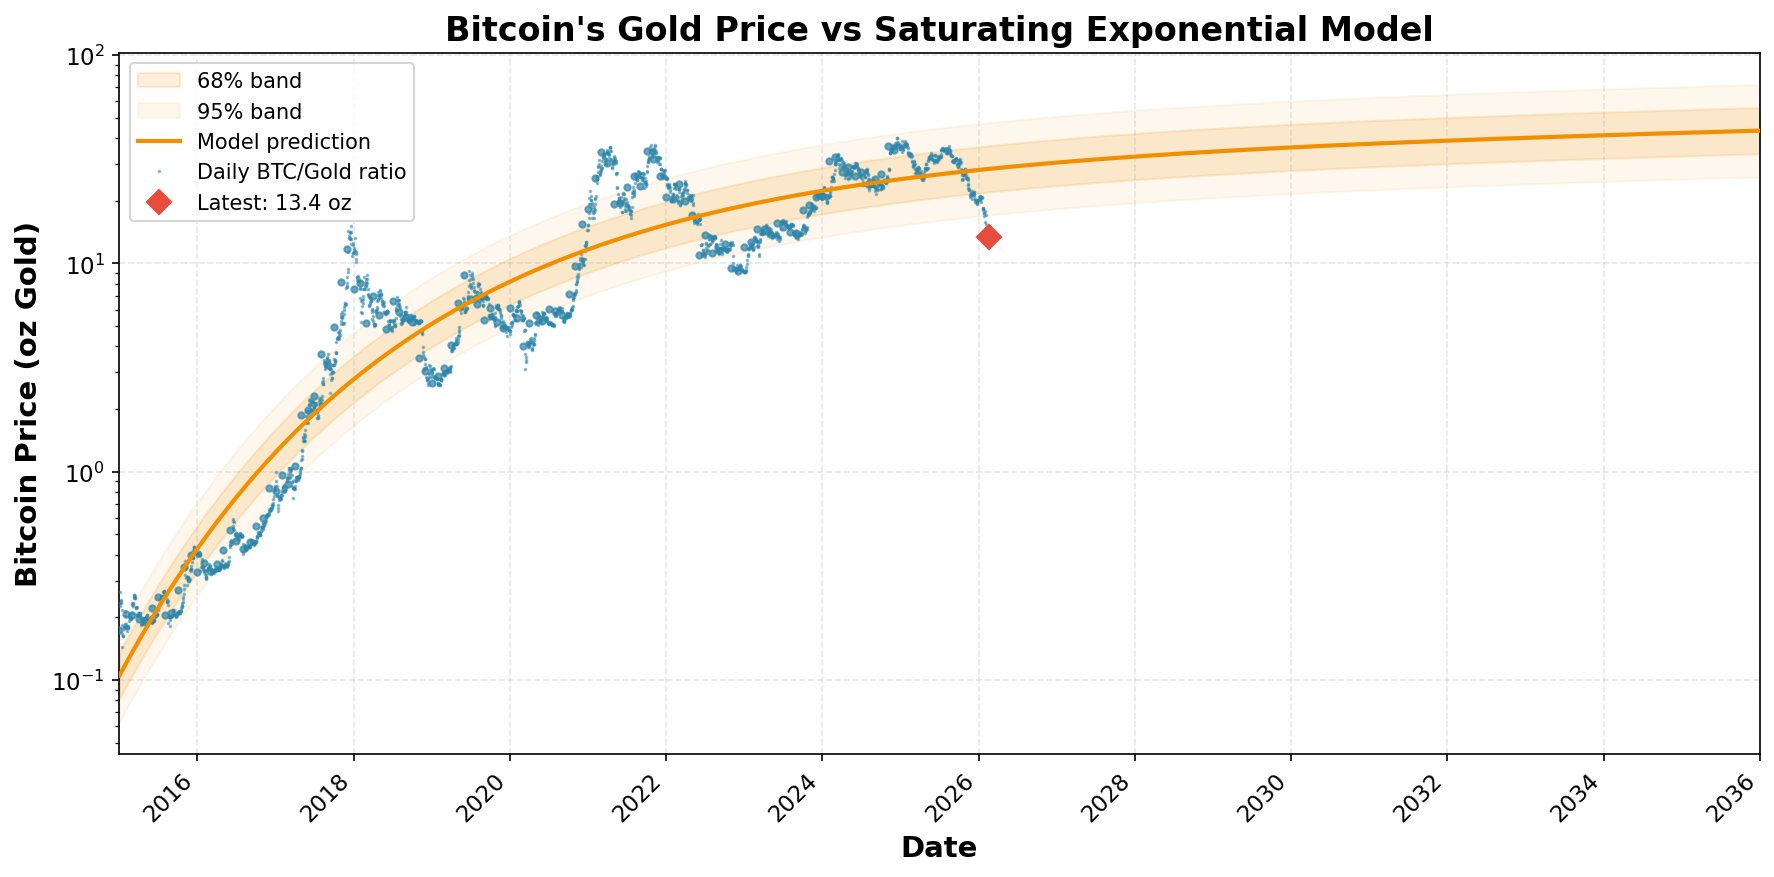
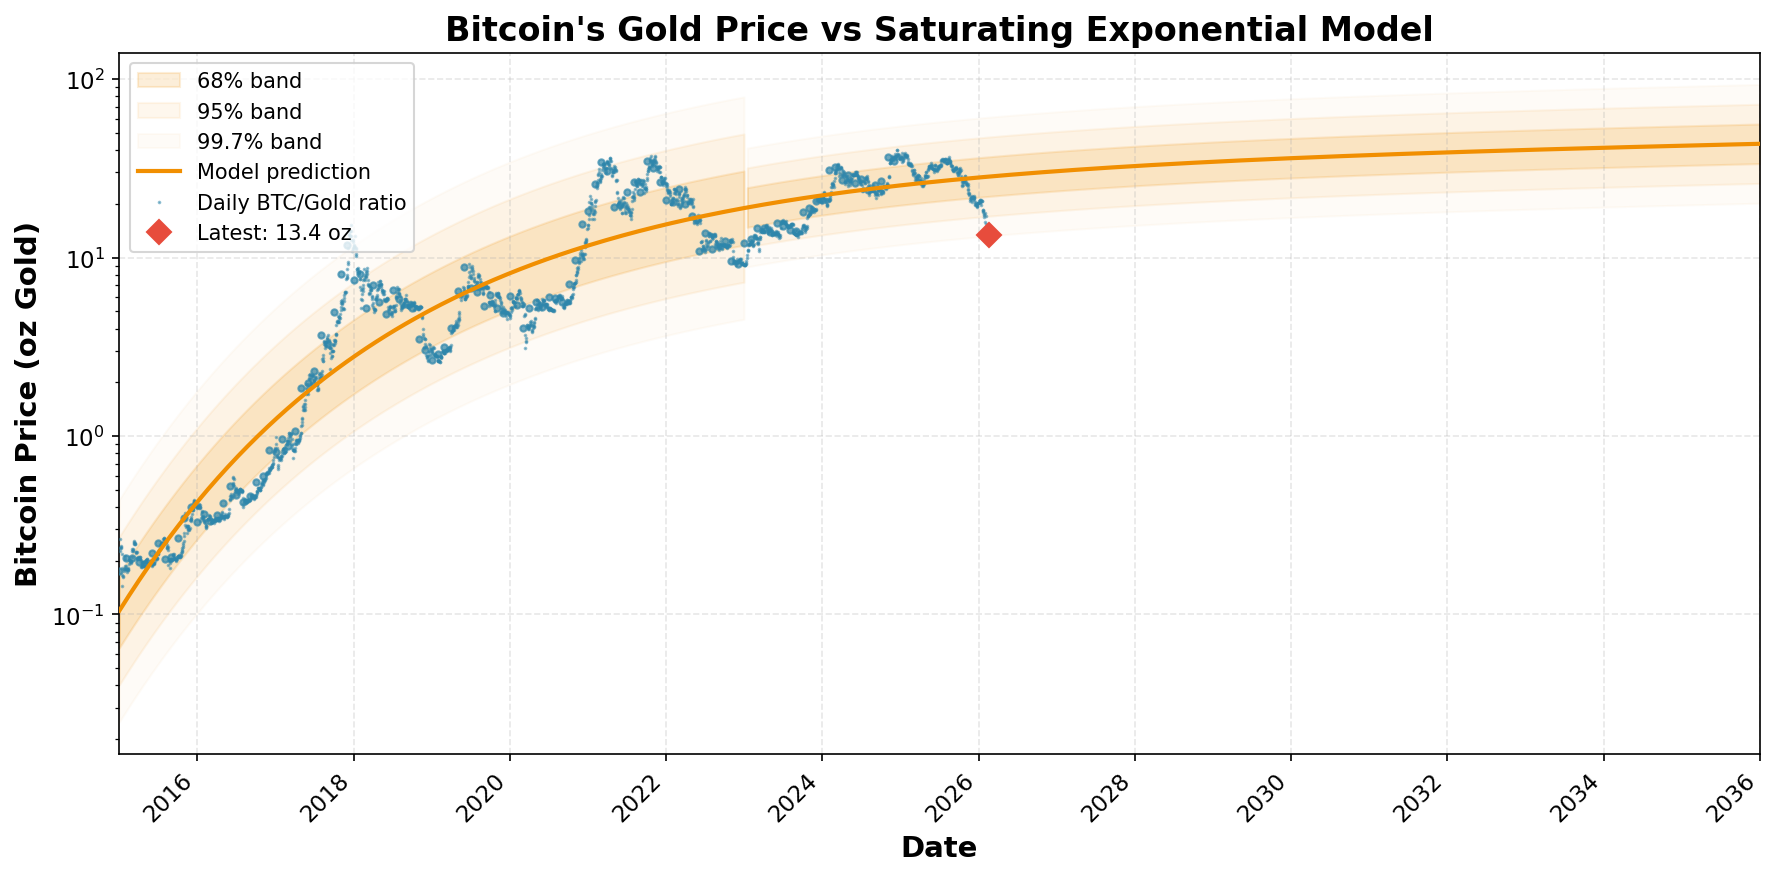
Split error bands at 2023 regime change, add 3-sigma bands
Pre-2023 uses full-sample sigma (0.478), post-2023 uses reduced
volatility sigma (0.255). Both regimes show 1/2/3-sigma bands.

diff --git a/index.html b/index.html
@@ -64,7 +64,7 @@
 </table>
 
 <div class="footer">
-  <p>Last updated: 2026-02-22 20:37 UTC</p>
+  <p>Last updated: 2026-02-22 20:43 UTC</p>
   <p>Data: BTC-USD and Gold futures via Yahoo Finance. Monthly z-scores computed on 1st-of-month closes.
      Boundary constants calibrated via Monte Carlo (2M simulations, 120 monthly looks, &alpha;=0.05).</p>
   <p><a href="bitcoin_gold_biggs.pdf">Paper (PDF)</a> |

diff --git a/update_dashboard.py b/update_dashboard.py
@@ -193,21 +193,29 @@ def create_ratio_plot(daily_df, output_path):
 
     # Model curve from 2015 to 2036
     t_model = np.linspace(0, 21, 500)
-    dates_model = [START_DATE + timedelta(days=d*365.25) for d in t_model]
+    dates_model = np.array([START_DATE + timedelta(days=d*365.25) for d in t_model])
     ln_model = model_ln_ratio(t_model)
     ratio_model = np.exp(ln_model)
 
-    # Confidence bands (post-2023 sigma)
-    ratio_1s_upper = np.exp(ln_model + SIGMA_POST2023)
-    ratio_1s_lower = np.exp(ln_model - SIGMA_POST2023)
-    ratio_2s_upper = np.exp(ln_model + 2 * SIGMA_POST2023)
-    ratio_2s_lower = np.exp(ln_model - 2 * SIGMA_POST2023)
+    # Regime change at 2023-01-01: wider bands before, tighter after
+    regime_date = pd.to_datetime('2023-01-01')
+    pre = dates_model < regime_date
+    post = ~pre
 
-    # Background bands
-    ax.fill_between(dates_model, ratio_1s_lower, ratio_1s_upper,
-                    color='#F18F01', alpha=0.15, label='68% band')
-    ax.fill_between(dates_model, ratio_2s_lower, ratio_2s_upper,
-                    color='#F18F01', alpha=0.07, label='95% band')
+    # Pre-2023 bands (full-sample sigma)
+    for k, alpha, label in [(1, 0.15, ''), (2, 0.07, ''), (3, 0.03, '')]:
+        upper = np.exp(ln_model + k * SIGMA_FULL)
+        lower = np.exp(ln_model - k * SIGMA_FULL)
+        ax.fill_between(dates_model[pre], lower[pre], upper[pre],
+                        color='#F18F01', alpha=alpha)
+
+    # Post-2023 bands (reduced volatility sigma)
+    for k, alpha, label in [(1, 0.15, '68% band'), (2, 0.07, '95% band'),
+                            (3, 0.03, '99.7% band')]:
+        upper = np.exp(ln_model + k * SIGMA_POST2023)
+        lower = np.exp(ln_model - k * SIGMA_POST2023)
+        ax.fill_between(dates_model[post], lower[post], upper[post],
+                        color='#F18F01', alpha=alpha, label=label)
 
     # Model line
     ax.semilogy(dates_model, ratio_model, '-', color='#F18F01', linewidth=2,
